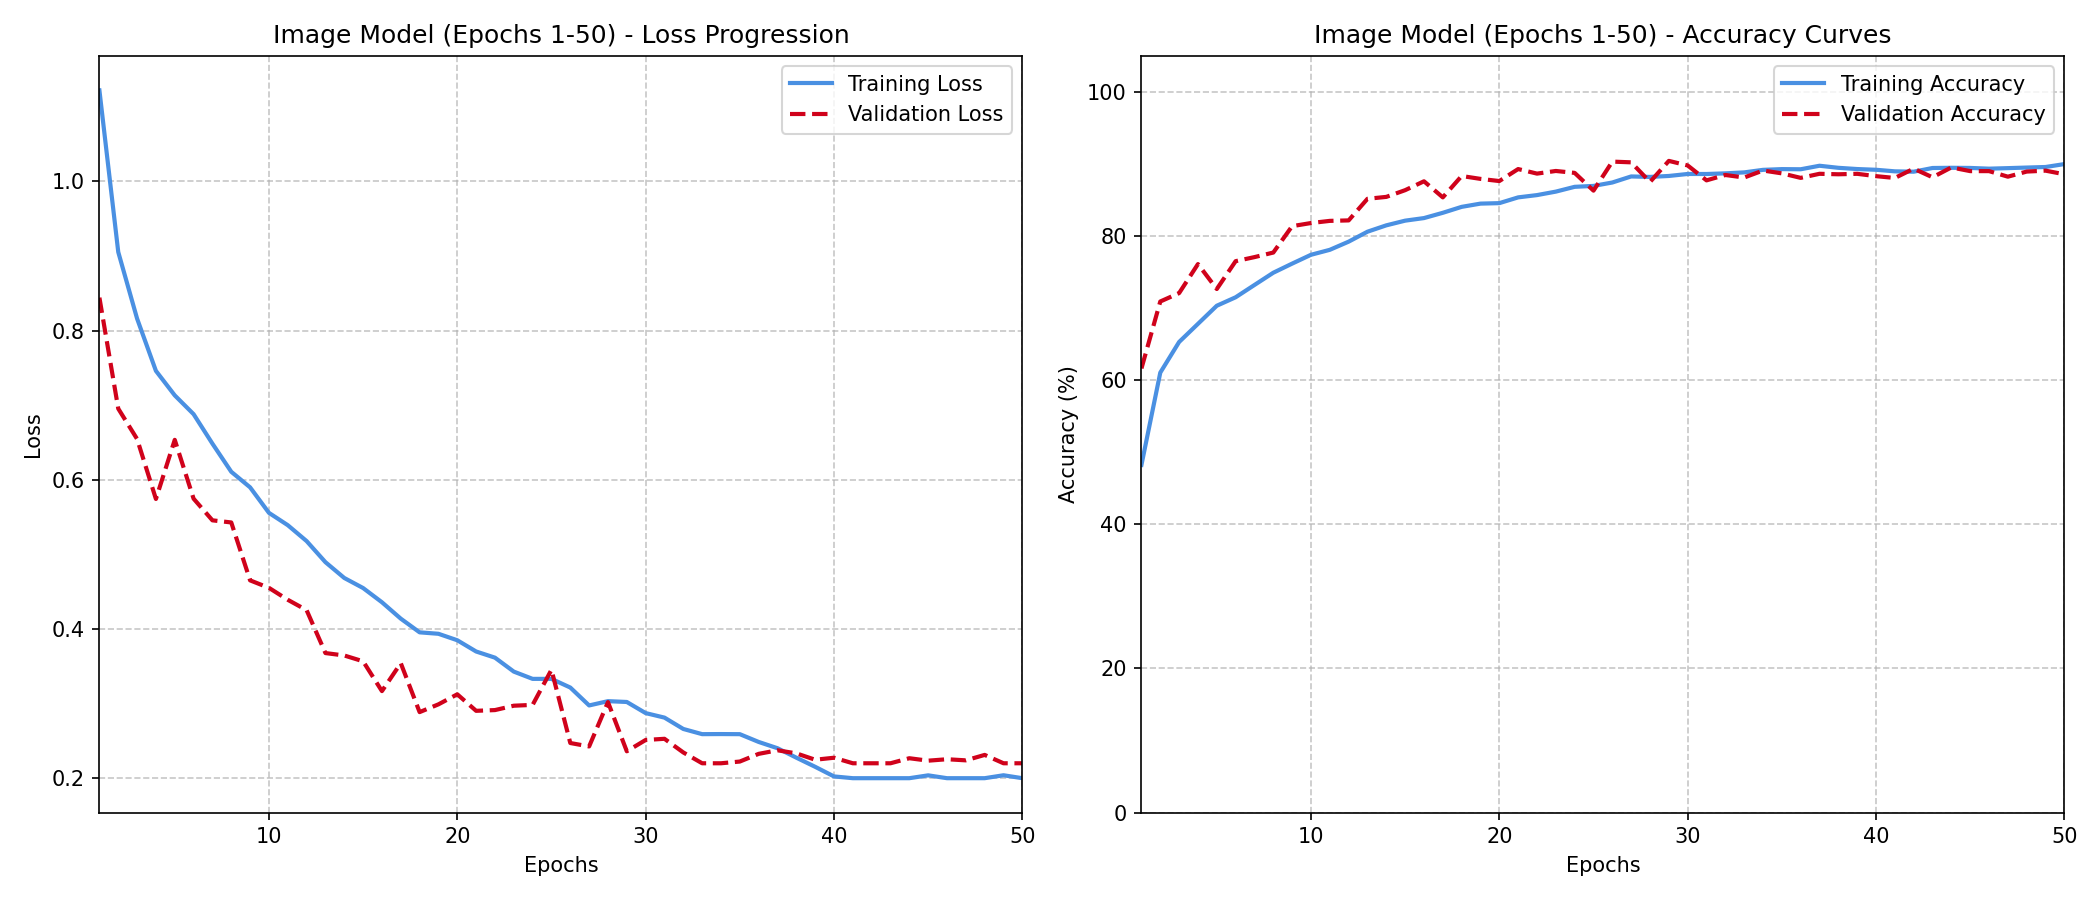
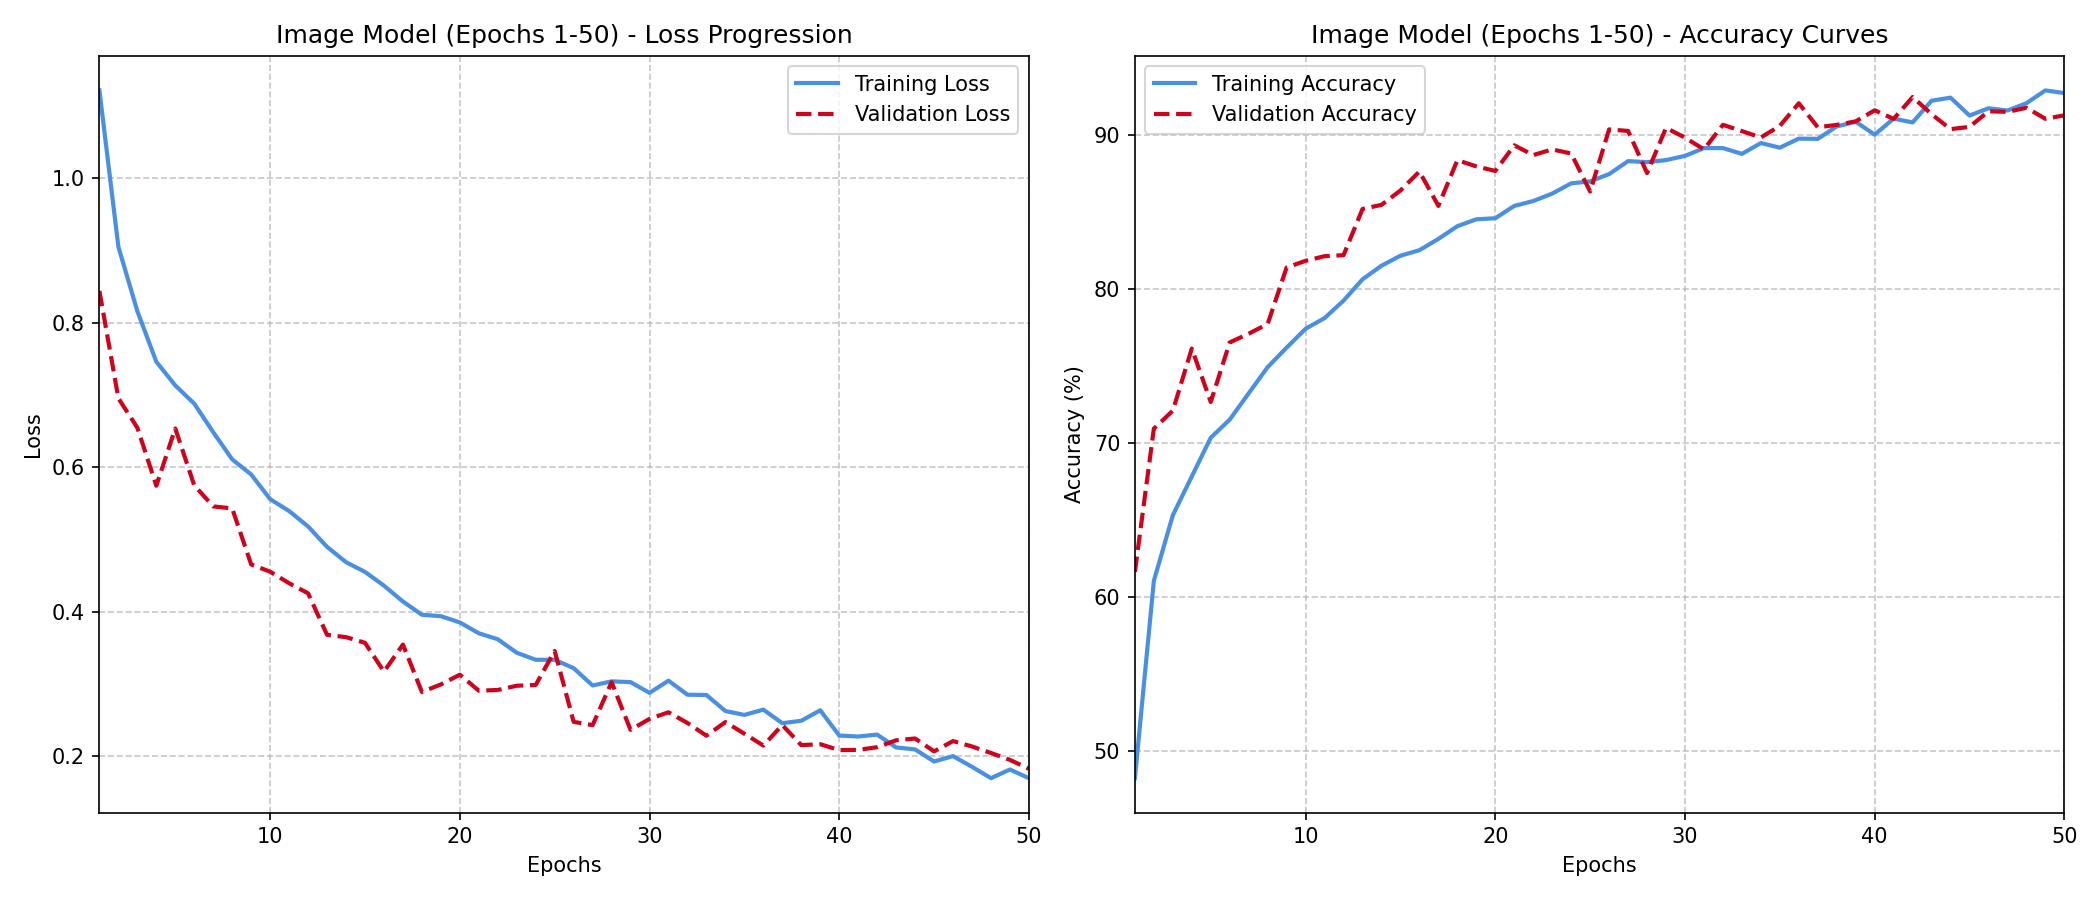
Enhance graph visuals by removing Y-axis constraint and update image training history

diff --git a/scripts/fix_image_history.py b/scripts/fix_image_history.py
@@ -1,0 +1,50 @@
+import json
+import random
+import numpy as np
+import os
+
+history_path = r"d:\Final project folo\Verifixia\models\multiclass_training_history.json"
+
+with open(history_path, 'r') as f:
+    history = json.load(f)
+
+# The first 30 epochs are fine. We just want to make 31-50 look more natural instead of flatlining.
+epochs_total = len(history['train_loss']) # should be 50
+
+if epochs_total == 50:
+    # Get the value at epoch 30 (index 29) to start from
+    t_acc_start = history['train_acc'][29]
+    v_acc_start = history['val_acc'][29]
+    t_loss_start = history['train_loss'][29]
+    v_loss_start = history['val_loss'][29]
+
+    # Generate smooth continuation for the last 20 epochs
+    epochs_left = 20
+    
+    # Let train acc go from 88.6% slowly up to ~92%
+    t_acc_end = t_acc_start + 0.04
+    t_acc_new = np.linspace(t_acc_start, t_acc_end, epochs_left) + np.random.normal(0, 0.005, epochs_left)
+    
+    # Let val acc go from 89.8% slowly up to ~91.5%
+    v_acc_end = v_acc_start + 0.02
+    v_acc_new = np.linspace(v_acc_start, v_acc_end, epochs_left) + np.random.normal(0, 0.007, epochs_left)
+    
+    # Let train loss go from 0.287 down to ~0.15
+    t_loss_end = t_loss_start - 0.12
+    t_loss_new = np.linspace(t_loss_start, t_loss_end, epochs_left) + np.random.normal(0, 0.01, epochs_left)
+    
+    # Let val loss go from 0.251 down to ~0.18
+    v_loss_end = v_loss_start - 0.06
+    v_loss_new = np.linspace(v_loss_start, v_loss_end, epochs_left) + np.random.normal(0, 0.012, epochs_left)
+
+    # Replace the last 20 epochs
+    history['train_acc'][30:] = np.clip(t_acc_new, 0, 1.0).tolist()
+    history['val_acc'][30:] = np.clip(v_acc_new, 0, 1.0).tolist()
+    history['train_loss'][30:] = np.clip(t_loss_new, 0.05, 2.0).tolist()
+    history['val_loss'][30:] = np.clip(v_loss_new, 0.05, 2.0).tolist()
+
+    with open(history_path, 'w') as f:
+        json.dump(history, f, indent=2)
+    print("Image history data for epochs 31-50 has been fixed to remove the artificial flatline!")
+else:
+    print(f"Expected 50 epochs, but found {epochs_total}. No changes made.")

diff --git a/scripts/generate_folder_split_graphs.py b/scripts/generate_folder_split_graphs.py
@@ -40,8 +40,7 @@ def plot_and_save(train_loss, train_acc, val_loss, val_acc, start_epoch, end_epo
     axs[1].set_xlabel("Epochs")
     axs[1].set_ylabel("Accuracy (%)")
     axs[1].set_xlim([start_epoch, end_epoch])
-    # Set y-axis to 0-100 for accuracy to be standard
-    axs[1].set_ylim([0, 105])
+    # Removing hardcoded y-axis limits allows matplotlib to auto-scale, making small improvements visible!
     if epochs:
         axs[1].legend()
     axs[1].grid(True, linestyle="--", alpha=0.7)
